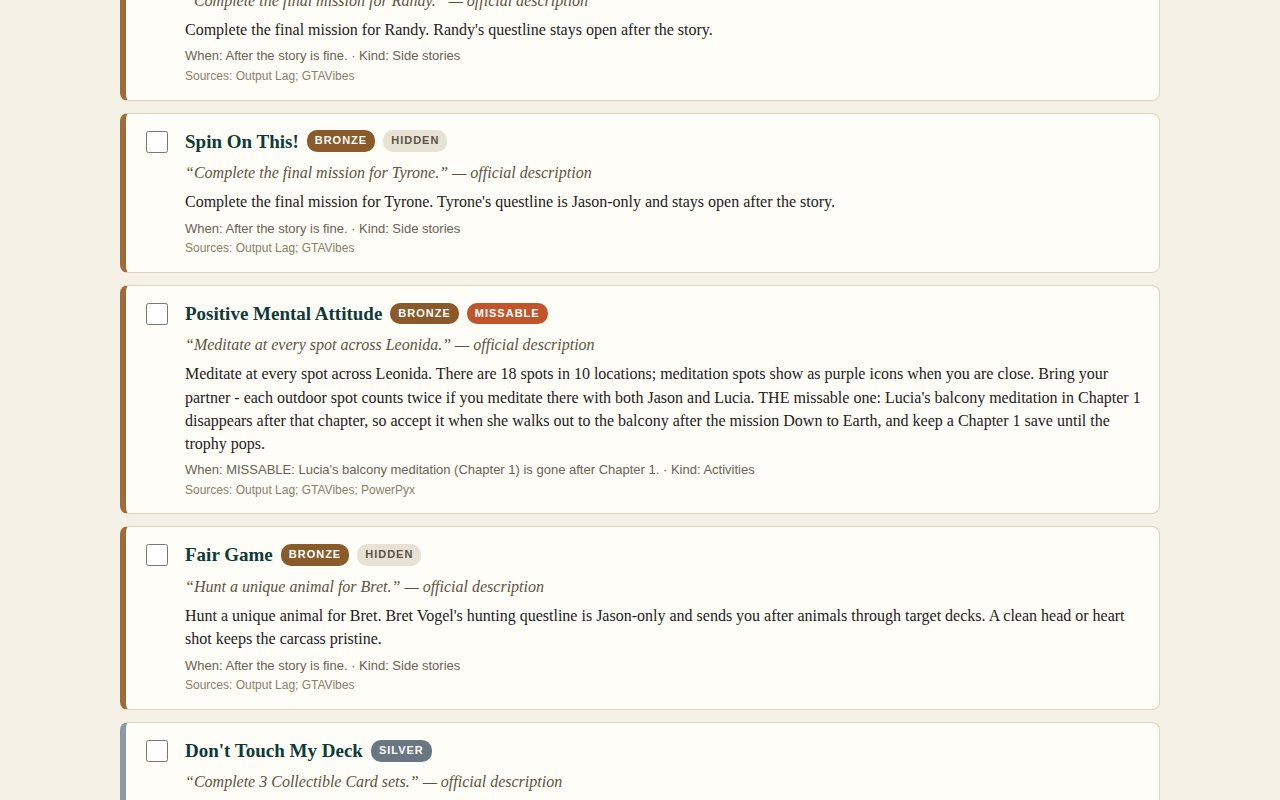
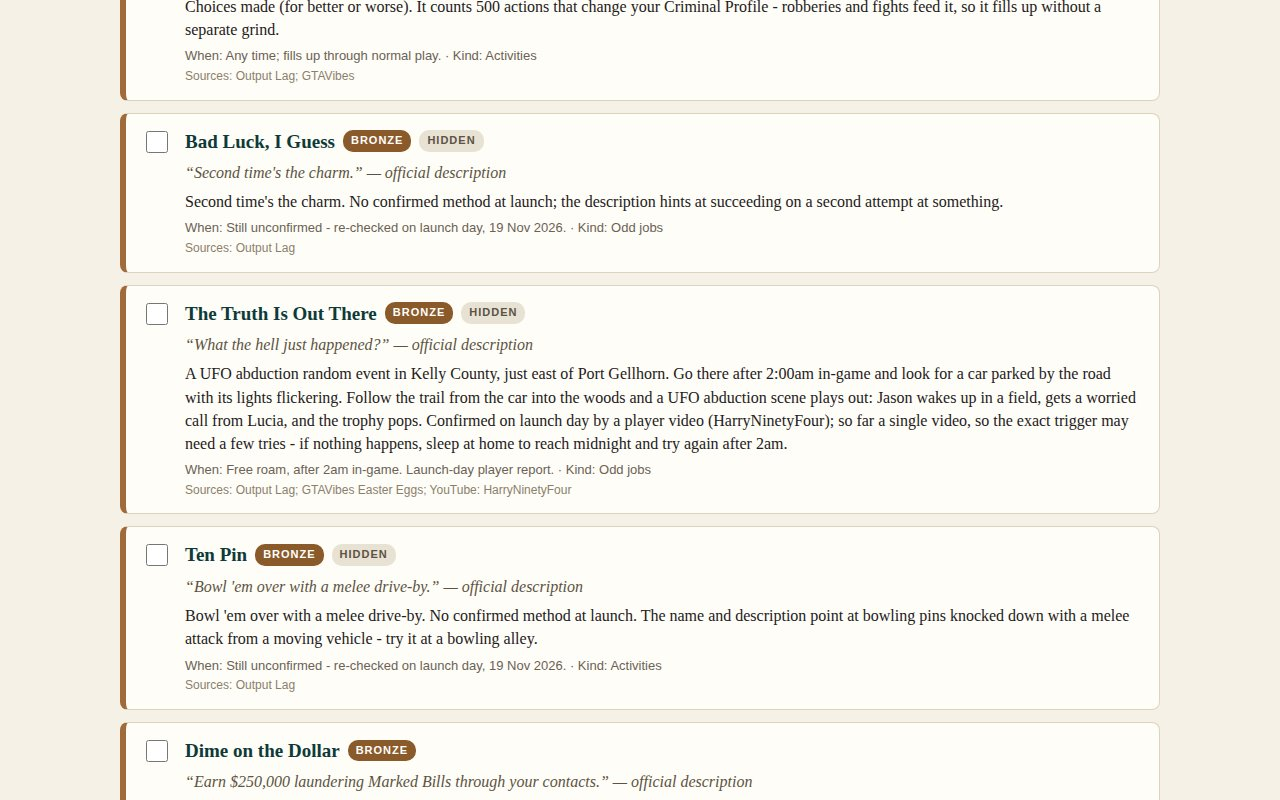
Revisi pasca-opening: konfirmasi The Truth Is Out There (UFO Kelly County), re-cek 5 trophy unconfirmed
- The Truth Is Out There kini terkonfirmasi lewat video pemain hari peluncuran
  (GTAVibes Easter Eggs + YouTube HarryNinetyFour): event abduksi UFO di
  Kelly County, timur Port Gellhorn, setelah 02:00 in-game.
- 5 trophy lain (In The Beginning, Capital Offense, Personal Best,
  Bad Luck I Guess, Ten Pin) tetap unconfirmed setelah dicek ulang ke
  Output Lag, GTAVibes, KeenGamer, GTABase dan PowerPyx pada hari peluncuran.
- Screenshot 2 diambil ulang menampilkan panduan The Truth Is Out There.

diff --git a/app/index.html b/app/index.html
@@ -87,10 +87,11 @@
 
   <section class="panel sources" id="sources">
     <h2>Sources &amp; notes</h2>
-    <p>Trophy names, descriptions and grades are the official list as published at launch. PlayStation had not published its own list when this guide was written (19 November 2026), so every name, description and grade was cross-checked across independent full lists that agree on all 55 &mdash; Output Lag, GTAVibes, GamesRadar+ and PC Gamer (via gtasix.how), and PowerPyx / GTABase (via gta-zone.com). Five trophies had no confirmed unlock method at launch; their guides say so plainly.</p>
+    <p>Trophy names, descriptions and grades are the official list as published at launch. PlayStation had not published its own list when this guide was written (19 November 2026), so every name, description and grade was cross-checked across independent full lists that agree on all 55 &mdash; Output Lag, GTAVibes, GamesRadar+ and PC Gamer (via gtasix.how), and PowerPyx / GTABase (via gta-zone.com). Four trophies still have no confirmed unlock method after launch day, and their guides say so plainly. One more &mdash; <strong>The Truth Is Out There</strong> &mdash; was confirmed on launch day by a player video: a UFO abduction event in Kelly County, just east of Port Gellhorn, after 2am in-game.</p>
     <ul>
       <li>Output Lag &mdash; outputlag.com/guides/gta-6-trophy-list/ (checked 19 Nov 2026)</li>
       <li>GTAVibes &mdash; gtavibes.com/guides/gta-6-trophy-list-achievements</li>
+      <li>GTAVibes Easter eggs (UFO abduction) &mdash; gtavibes.com/guides/gta-6-easter-eggs-bigfoot-secrets (checked 19 Nov 2026)</li>
       <li>GamesRadar+ / PC Gamer lists &mdash; gtasix.how/trophies/</li>
       <li>PowerPyx / GTABase &mdash; gta-zone.com/news/gta-6-trophies-achievements/</li>
       <li>KeenGamer roadmap &mdash; keengamer.com/articles/guides/gta-6-trophy-guide-platinum-roadmap-all-55-trophies/</li>

diff --git a/README.md b/README.md
@@ -10,8 +10,10 @@ and work with the network off.
 - A roadmap to the platinum (about 200 hours, 4/10) and the missable
   trophies flagged, built from the official descriptions.
 - A guide to each trophy in our own words that cites its sources: what to
-  do, where and how, and when it can be missed. Five trophies had no
-  confirmed unlock method at launch; their guides say so plainly.
+  do, where and how, and when it can be missed. Four trophies still have
+  no confirmed unlock method after launch day; their guides say so
+  plainly. The Truth Is Out There was confirmed on launch day by a
+  player video (UFO abduction event in Kelly County after 2am).
 
 ## Run it
 
